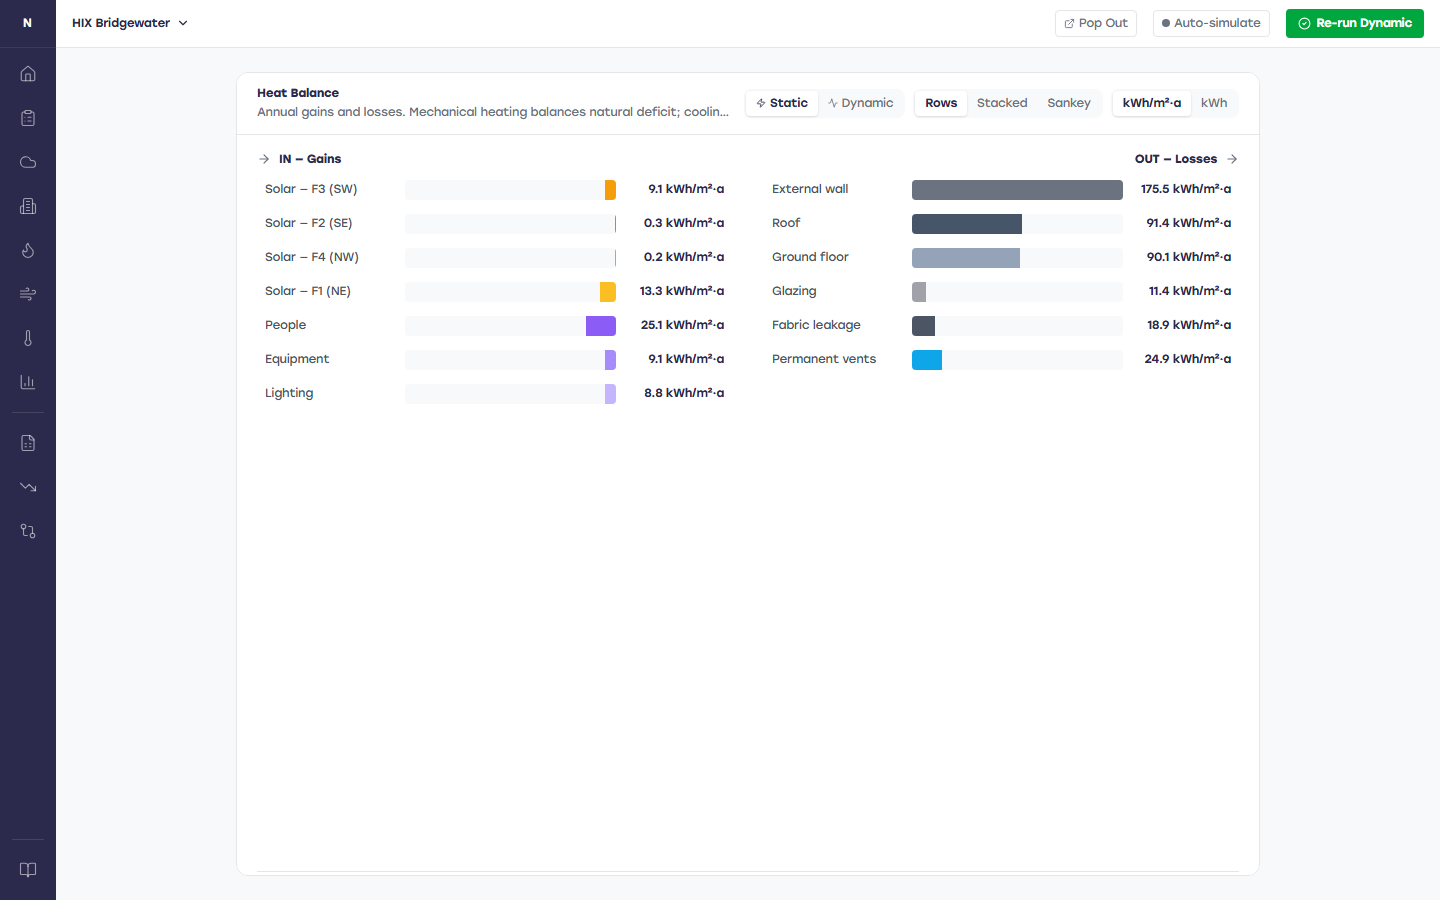
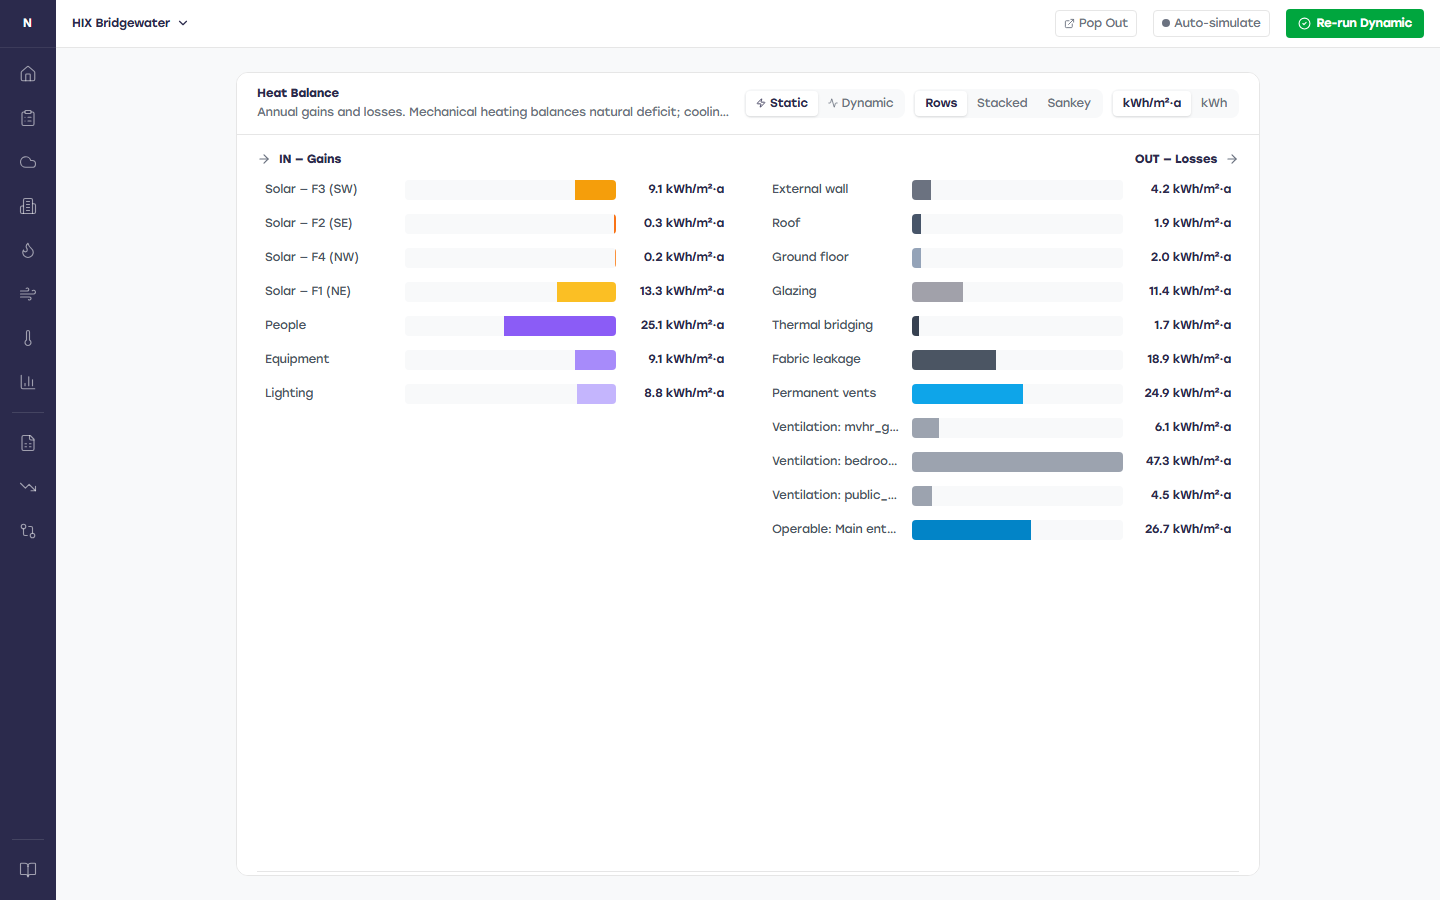
Brief 28-TB-Simple TB-V1b: B (Operation orphan) + A (display anomaly) + C (Systems read-only)
Sequenced per Chris's TB-V1b instruction: Fix B (5 min) -> Fix A
(30 min) -> Investigation C (10 min read-only). Single commit. Five
AFTER screenshots paired against the BASELINEs already in repo.

FIX B -- Operation tab orphan (gf_entrance_door now visible):

  frontend/src/context/ProjectContext.jsx
    _applyProject() params allowlist extended with three previously
    dropped fields:
      - fabric             (Brief 28k -- houses the legacy α fallback)
      - thermal_bridges    (Brief 28-TB-Simple ISO 14683 block)
      - operable_openings  (Brief 28e doors / window banks / vents)

    Symptom (from 4-tab baseline 43a35ea): OperationModule rendered the
    Gate E5a UI scaffold but showed "No operable openings yet" despite
    the seed persisting gf_entrance_door. Engine output also showed
    mode=absent for thermal_bridges (back-compat fallback path) because
    params.thermal_bridges was undefined -- the engine never saw the
    seeded iso14683_auto config.

    Allowlist-grep done for other Brief 28k/L/e fields possibly
    missing: all engine-read fields per withMode (line 369-412 of
    instantCalc.js) are now in the allowlist. No other flags.

  AFTER screenshot (tbv1_AFTER_operation_tab.png): door entry rendered.
    "1 entry." | [Scheduled] Main entrance door (south) -- 4.00 m² ×
    2.00 m tall on F3 (SW). Brief 28e Gate E5a UI confirmed working
    end-to-end.

FIX A -- /balance-test display anomaly (root cause was elsewhere):
[…]

diff --git a/frontend/src/components/modules/balance/HeatBalance.jsx b/frontend/src/components/modules/balance/HeatBalance.jsx
@@ -80,8 +80,16 @@ function _normaliseSetpointNode(node, gia) {
   if (!node) return null
   const kwh = node.heating_loss_kwh ?? 0
   if (!(kwh > 0.01)) return null
-  const kwh_per_m2 = gia > 0 ? kwh / gia : 0
-  return { kwh, kwh_per_m2, area_m2: node.area_m2 }
+  // Preserve the engine's own kwh_per_m2 when it's already present on the
+  // setpoint node (external_wall / roof / ground_floor / glazing all carry
+  // it). For nodes without a precomputed kwh_per_m2 (fabric_leakage /
+  // permanent_vents / thermal_bridging in the State 2 shape), fall back to
+  // kwh / gia. Spread the original node so by_face / area_m2 / any other
+  // fields the row drill-down might want are preserved.
+  const kwh_per_m2 = (node.kwh_per_m2 != null && Number.isFinite(node.kwh_per_m2))
+    ? node.kwh_per_m2
+    : (gia > 0 ? kwh / gia : 0)
+  return { ...node, kwh, kwh_per_m2 }
 }
 
 function flattenLosses(data, unit, mode = DEFAULT_MODE) {
@@ -115,23 +123,31 @@ function flattenLosses(data, unit, mode = DEFAULT_MODE) {
   // categories not previously in the load order.
   const baseOrder = loadOrderFor(mode).filter(k => allowed.has(k))
   const orderWithNew = []
-  for (const k of baseOrder) {
-    orderWithNew.push(k)
-    if (k === 'ventilation') {
-      // Per-system mech vent expansion — replaces / supplements the legacy
-      // single 'ventilation' aggregate line.
-      const ventSystems = setpoint?.ventilation ?? []
-      for (const v of ventSystems) {
-        if ((v.heat_loss_kwh ?? 0) > 0.01) {
-          const key = `ventilation_${v.name}`
-          const kwh = v.heat_loss_kwh
-          const kwh_per_m2 = gia > 0 ? kwh / gia : 0
-          losses[key] = { kwh, kwh_per_m2, _label: `Ventilation: ${v.name}` }
-          orderWithNew.push(key)
-        }
+  let perSystemVentAppended = false
+  const appendPerSystemVent = () => {
+    if (perSystemVentAppended) return
+    perSystemVentAppended = true
+    const ventSystems = setpoint?.ventilation ?? []
+    for (const v of ventSystems) {
+      if ((v.heat_loss_kwh ?? 0) > 0.01) {
+        const key = `ventilation_${v.name}`
+        const kwh = v.heat_loss_kwh
+        const kwh_per_m2 = gia > 0 ? kwh / gia : 0
+        losses[key] = { kwh, kwh_per_m2, _label: `Ventilation: ${v.name}` }
+        orderWithNew.push(key)
       }
     }
   }
+  for (const k of baseOrder) {
+    orderWithNew.push(k)
+    if (k === 'ventilation') appendPerSystemVent()
+  }
+  // Envelope-gains / envelope-only modes have no 'ventilation' key in their
+  // load order (they have 'permanent_vents' instead, and per-system mech
+  // vent is a Brief 28k Gate 3+ addition that the legacy order predates).
+  // Append per-system mech vent at the end if not already inserted, so the
+  // three Bridgewater ventilation systems still render.
+  appendPerSystemVent()
   // Per-opening natural ventilation — always appended at the end (operable
   // doors / windows from Brief 28e). Each opening becomes its own line.
   const natvents = setpoint?.natural_ventilation ?? []

diff --git a/frontend/src/context/ProjectContext.jsx b/frontend/src/context/ProjectContext.jsx
@@ -553,6 +553,24 @@ export function ProjectProvider({ children }) {
       openings: bc.openings ?? DEFAULT_PARAMS.openings,
       thermal_mass_mode:     bc.thermal_mass_mode     ?? DEFAULT_PARAMS.thermal_mass_mode,
       thermal_mass_category: bc.thermal_mass_category ?? DEFAULT_PARAMS.thermal_mass_category,
+      // Brief 28k Gate 3+ fabric-level inputs (e.g. thermal_bridging_alpha_pct
+      // legacy fallback). Engine reads building.fabric.* via withMode passthrough;
+      // previously dropped here, surfaced now so legacy Brief 28L projects
+      // route correctly through the back-compat fallback.
+      fabric:             bc.fabric             ?? null,
+      // Brief 28-TB-Simple ISO 14683 junction-based thermal bridging config.
+      // Engine reads building.thermal_bridges via withMode passthrough; without
+      // this allowlist entry, the OperationModule + HeatBalance would never
+      // see the seeded mode='iso14683_auto' and the engine helper would always
+      // fall through to the legacy α fallback (or mode='absent').
+      thermal_bridges:    bc.thermal_bridges    ?? null,
+      // Brief 28e operable openings (doors / window banks / vents). Engine
+      // reads via withMode; OperationModule (Gate E5a 4152e92) reads
+      // params.operable_openings directly. Without this allowlist entry the
+      // Bridgewater gf_entrance_door from the seed never reaches the UI
+      // (confirmed via 4-tab baseline 43a35ea: Operation tab shows "No
+      // operable openings yet" despite seed-persisted entry).
+      operable_openings:  bc.operable_openings  ?? null,
       // Brief 27 Part 1 — occupancy + gains migration. Persisted projects
       // pre-26.2 don't have these fields; build from legacy num_bedrooms /
       // occupancy_rate / people_per_room and the seeded hotel-bedroom

diff --git a/frontend/src/components/modules/balance/BalanceTestPage.jsx b/frontend/src/components/modules/balance/BalanceTestPage.jsx
@@ -47,14 +47,23 @@ export default function BalanceTestPage() {
   // efficiencies — exactly the scope of a pre-systems heat balance.
   const liveResult = useMemo(() => {
     if (weatherData && hourlySolar) {
+      // Brief 28-TB-Simple TB-V1b second fix: previously passed {} as
+      // libraryData here (4th arg). That dropped the construction layer
+      // stack the engine needs for pickWholeWallU to resolve the
+      // BRUKL-aligned U-values per element. Result: wholeWallU_ext fell
+      // through to the model-based fallback which gave a wildly inflated
+      // U-value (~5.8 W/m²K vs the 0.14 BRUKL override), inflating
+      // external_wall / roof / ground_floor heat loss by ~42x in the
+      // browser even though Node validation passed (because the Node
+      // script normalised libraryData correctly).
       return calculateInstant(
-        params || {}, constructions || {}, systems || {}, {},
+        params || {}, constructions || {}, systems || {}, libraryData,
         weatherData, hourlySolar, null,
         { mode: 'envelope-gains' },
       )
     }
-    return calculateInstantDegreeDay(params || {}, constructions || {}, systems || {}, {})
-  }, [params, constructions, systems, weatherData, hourlySolar])
+    return calculateInstantDegreeDay(params || {}, constructions || {}, systems || {}, libraryData)
+  }, [params, constructions, systems, weatherData, hourlySolar, libraryData])
 
   // Test harness defaults to full-model shape; flip to 'envelope-only' to
   // exercise the State 1 contract output path manually.